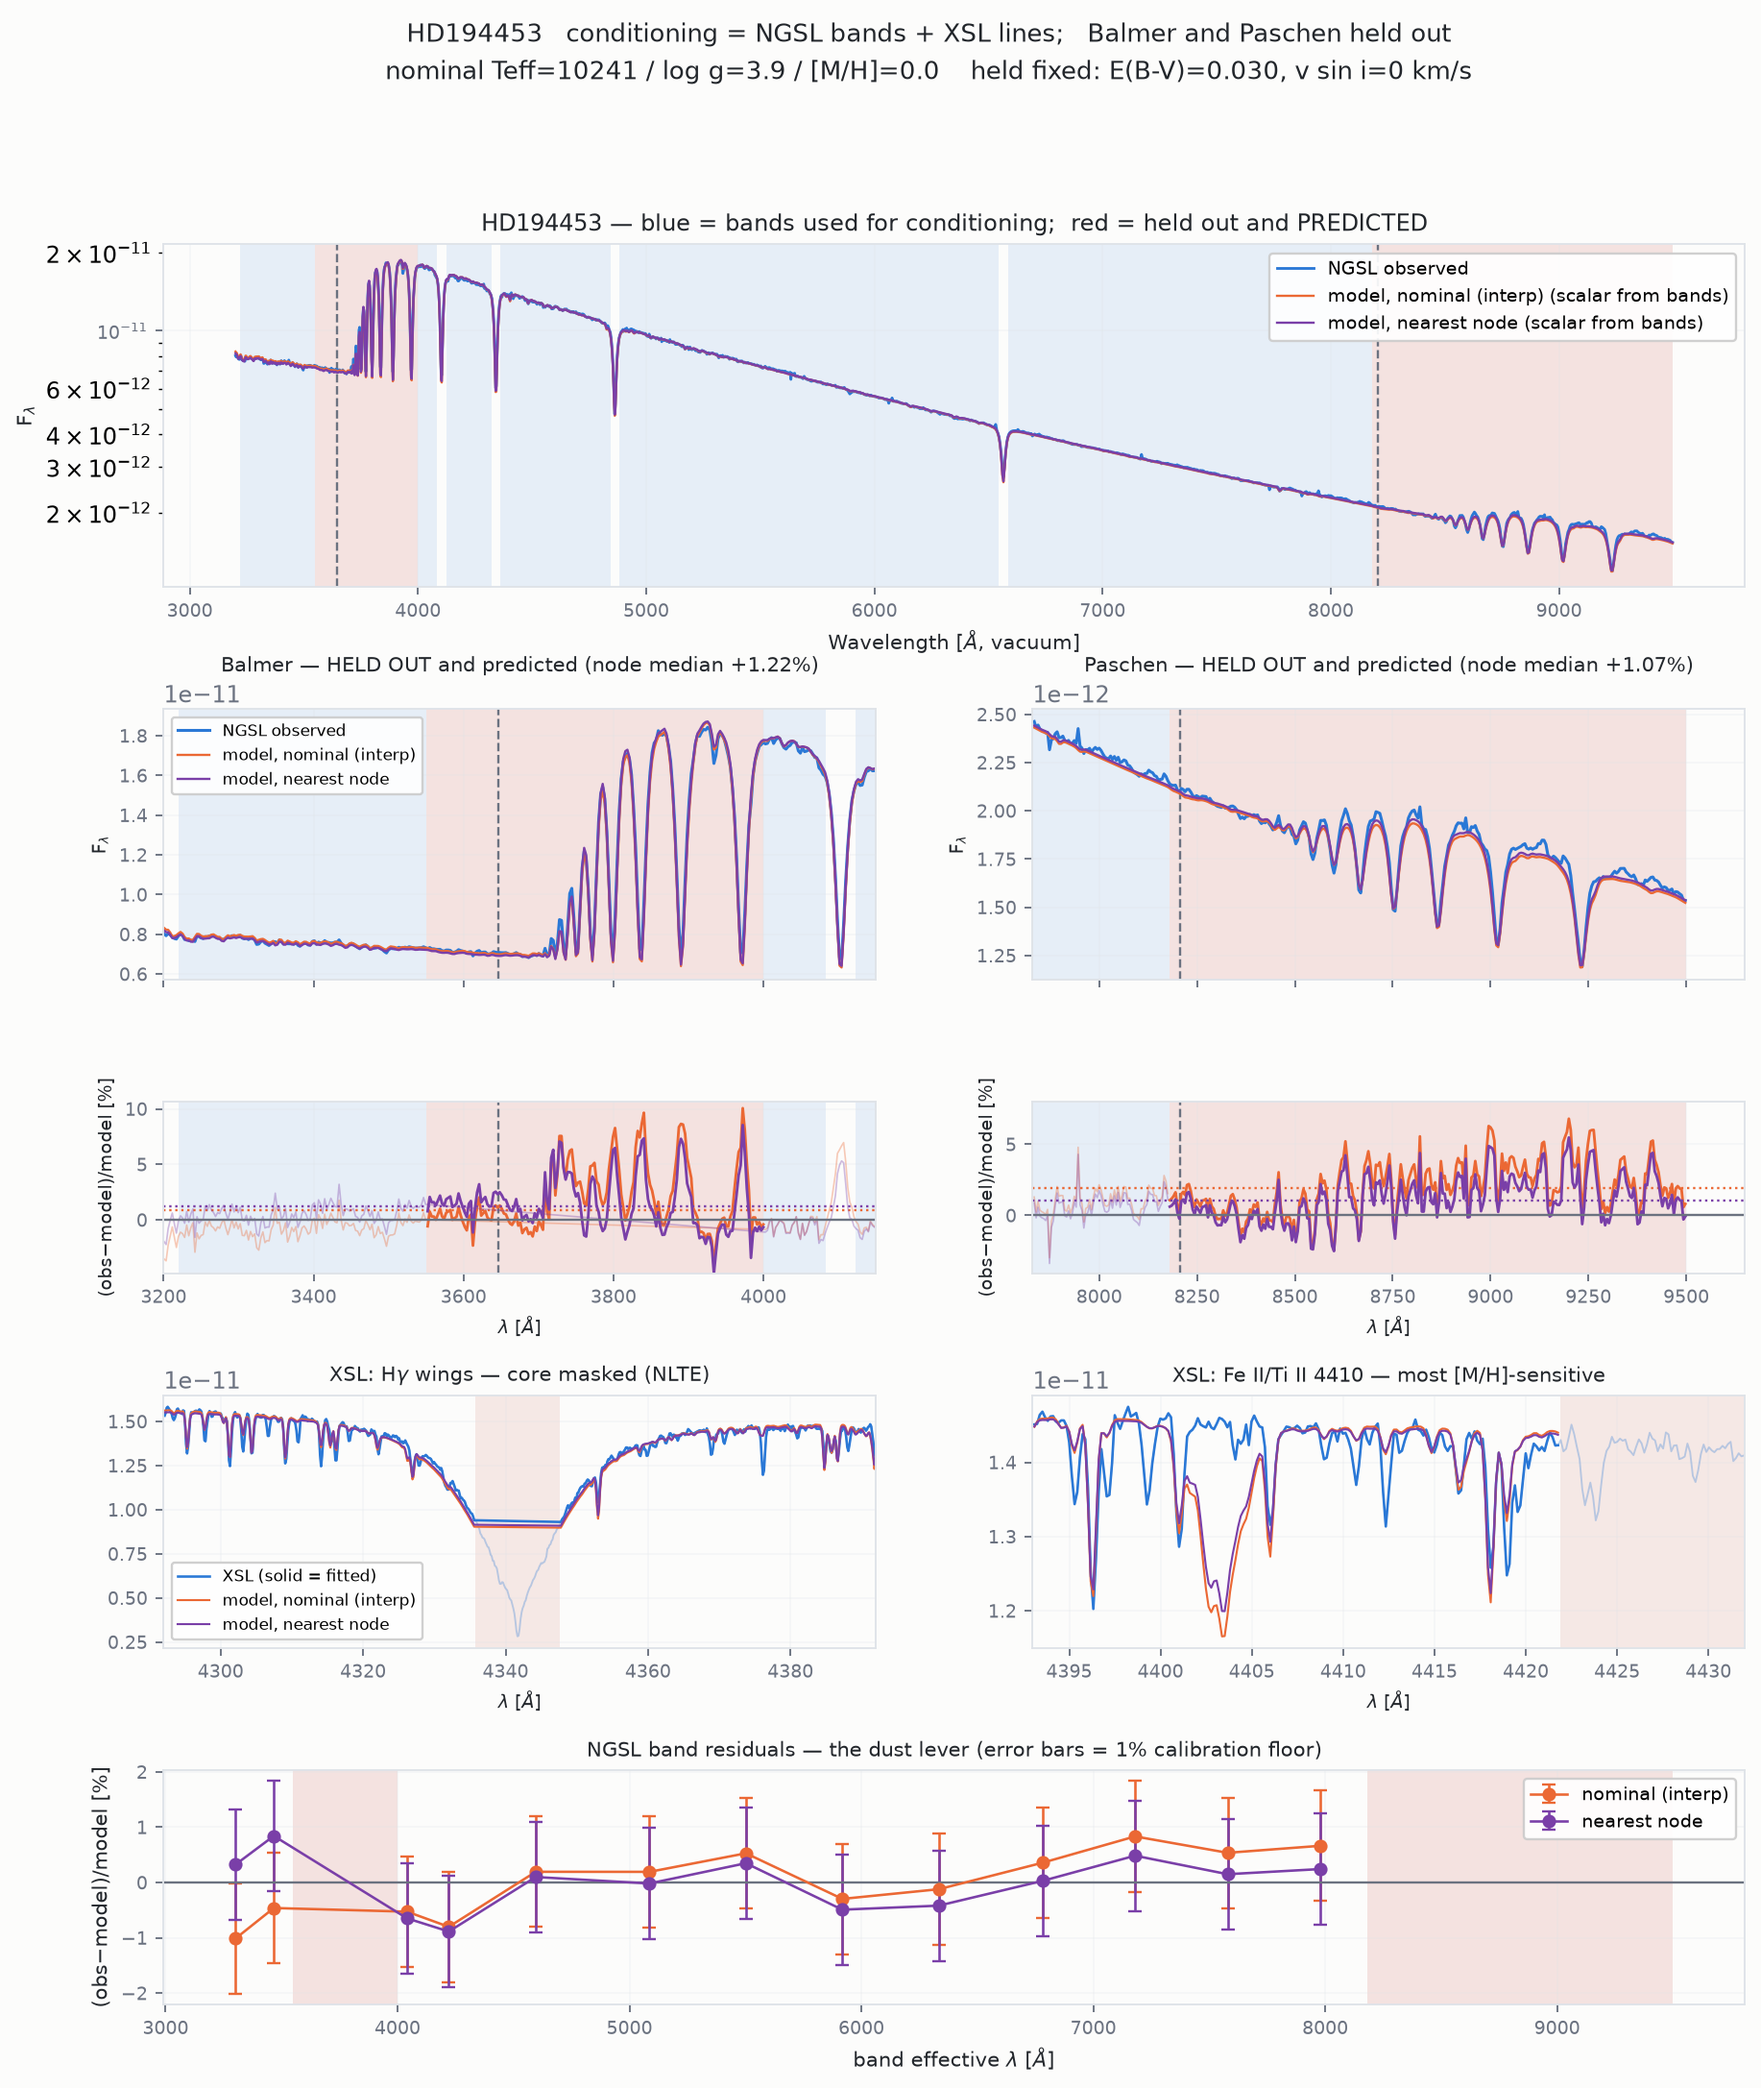
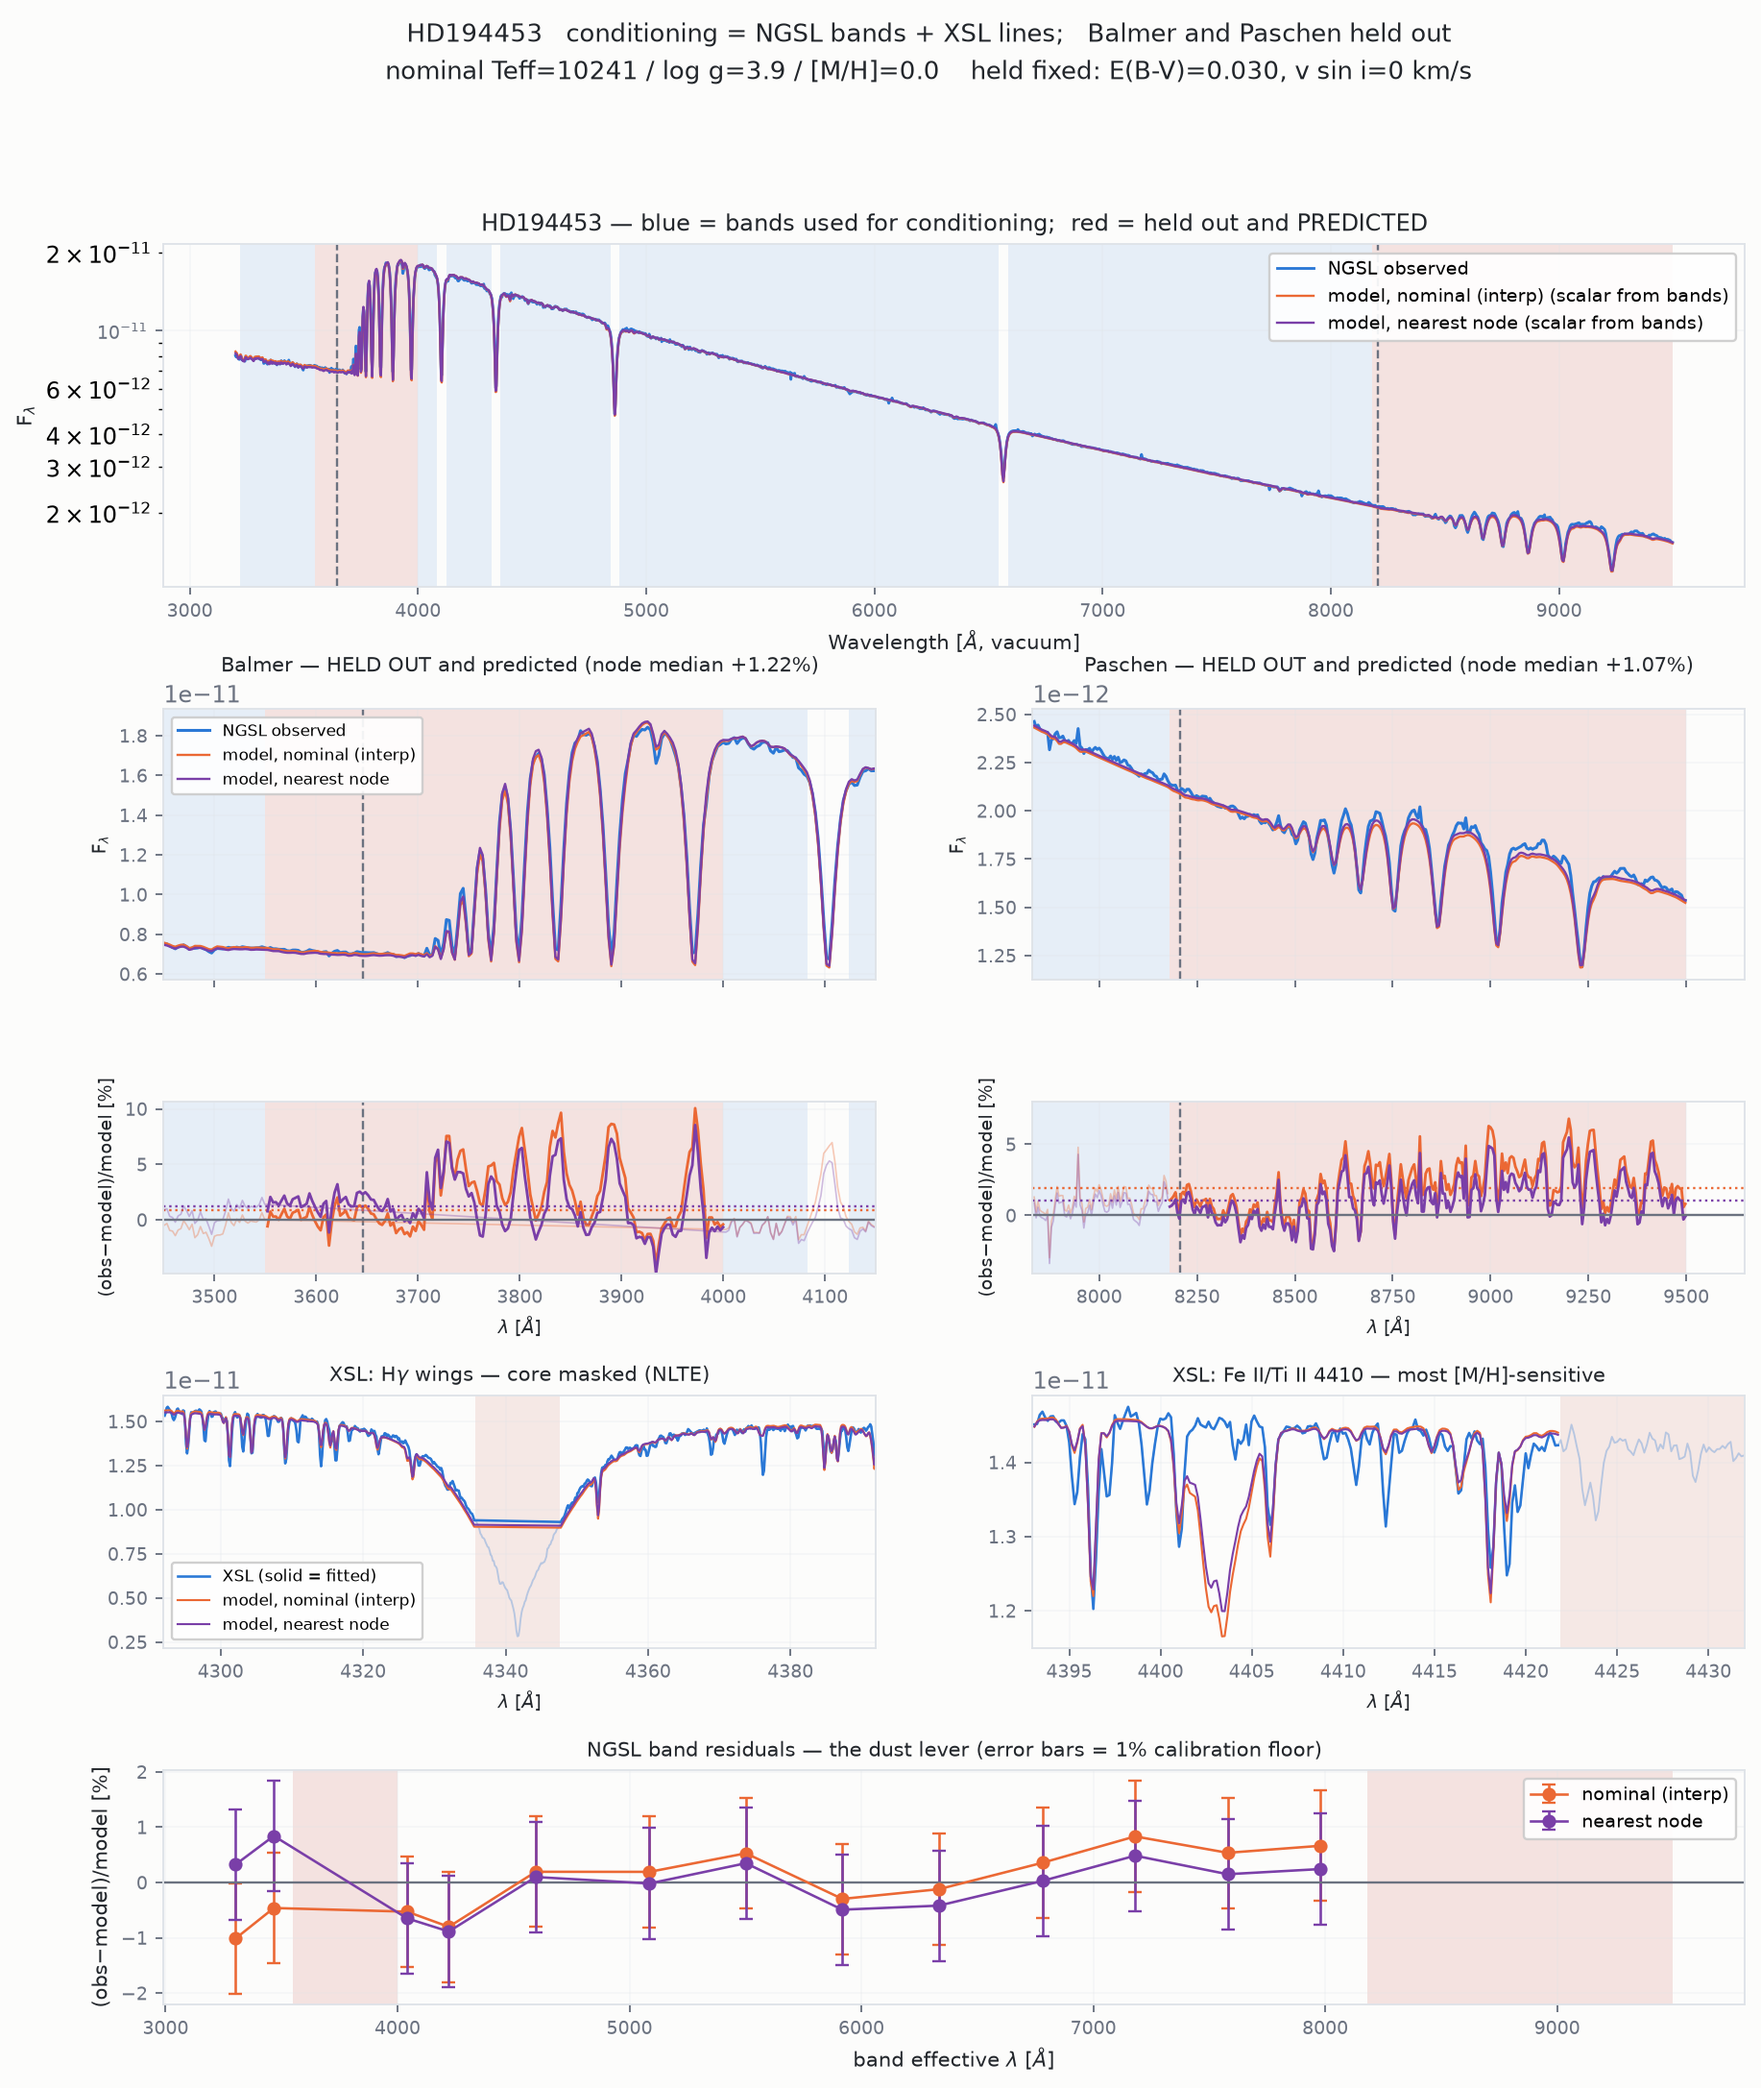
Start the Balmer panel at 3450 A
Panel limits are now per-break rather than a uniform offset from the
held-out window. The Balmer panel ran from 3200 A, which spent half its
width on blue continuum and squeezed the break itself; starting at 3450 A
keeps the sub-limit band that anchors the prediction in view while giving
the break the space to be read.

diff --git a/explore/check_predict.py b/explore/check_predict.py
@@ -161,11 +161,15 @@ def figure(star, nb, spec, xs, held, results, xsl_cal, row, bands,
     ax.set_xlabel(r'Wavelength [$\AA$, vacuum]', fontsize=9, color=INK)
     ax.legend(fontsize=8, loc='upper right', framealpha=.92)
 
-    for col, (nm, win, lam0) in enumerate((('Balmer', BREAK_WINDOW, BALMER),
-                                           ('Paschen', PASCHEN_WINDOW, PASCHEN))):
+    # Panel limits are per-break, not a uniform offset: the Balmer panel starts
+    # at 3450 A so the sub-limit continuum band that anchors the prediction is
+    # visible without the rest of the blue squeezing the break itself.
+    panels = (('Balmer', BREAK_WINDOW, BALMER, (3450., 4150.)),
+              ('Paschen', PASCHEN_WINDOW, PASCHEN, (7830., 9650.)))
+    for col, (nm, win, lam0, xlim) in enumerate(panels):
         axz = fig.add_subplot(gs[1, col])
         axr = fig.add_subplot(gs[2, col], sharex=axz)
-        lo, hi = win[0] - 350, win[1] + 150
+        lo, hi = xlim
         sel = m & (spec.wavelength > lo) & (spec.wavelength < hi)
         for a_ in (axz, axr):
             style(a_)
